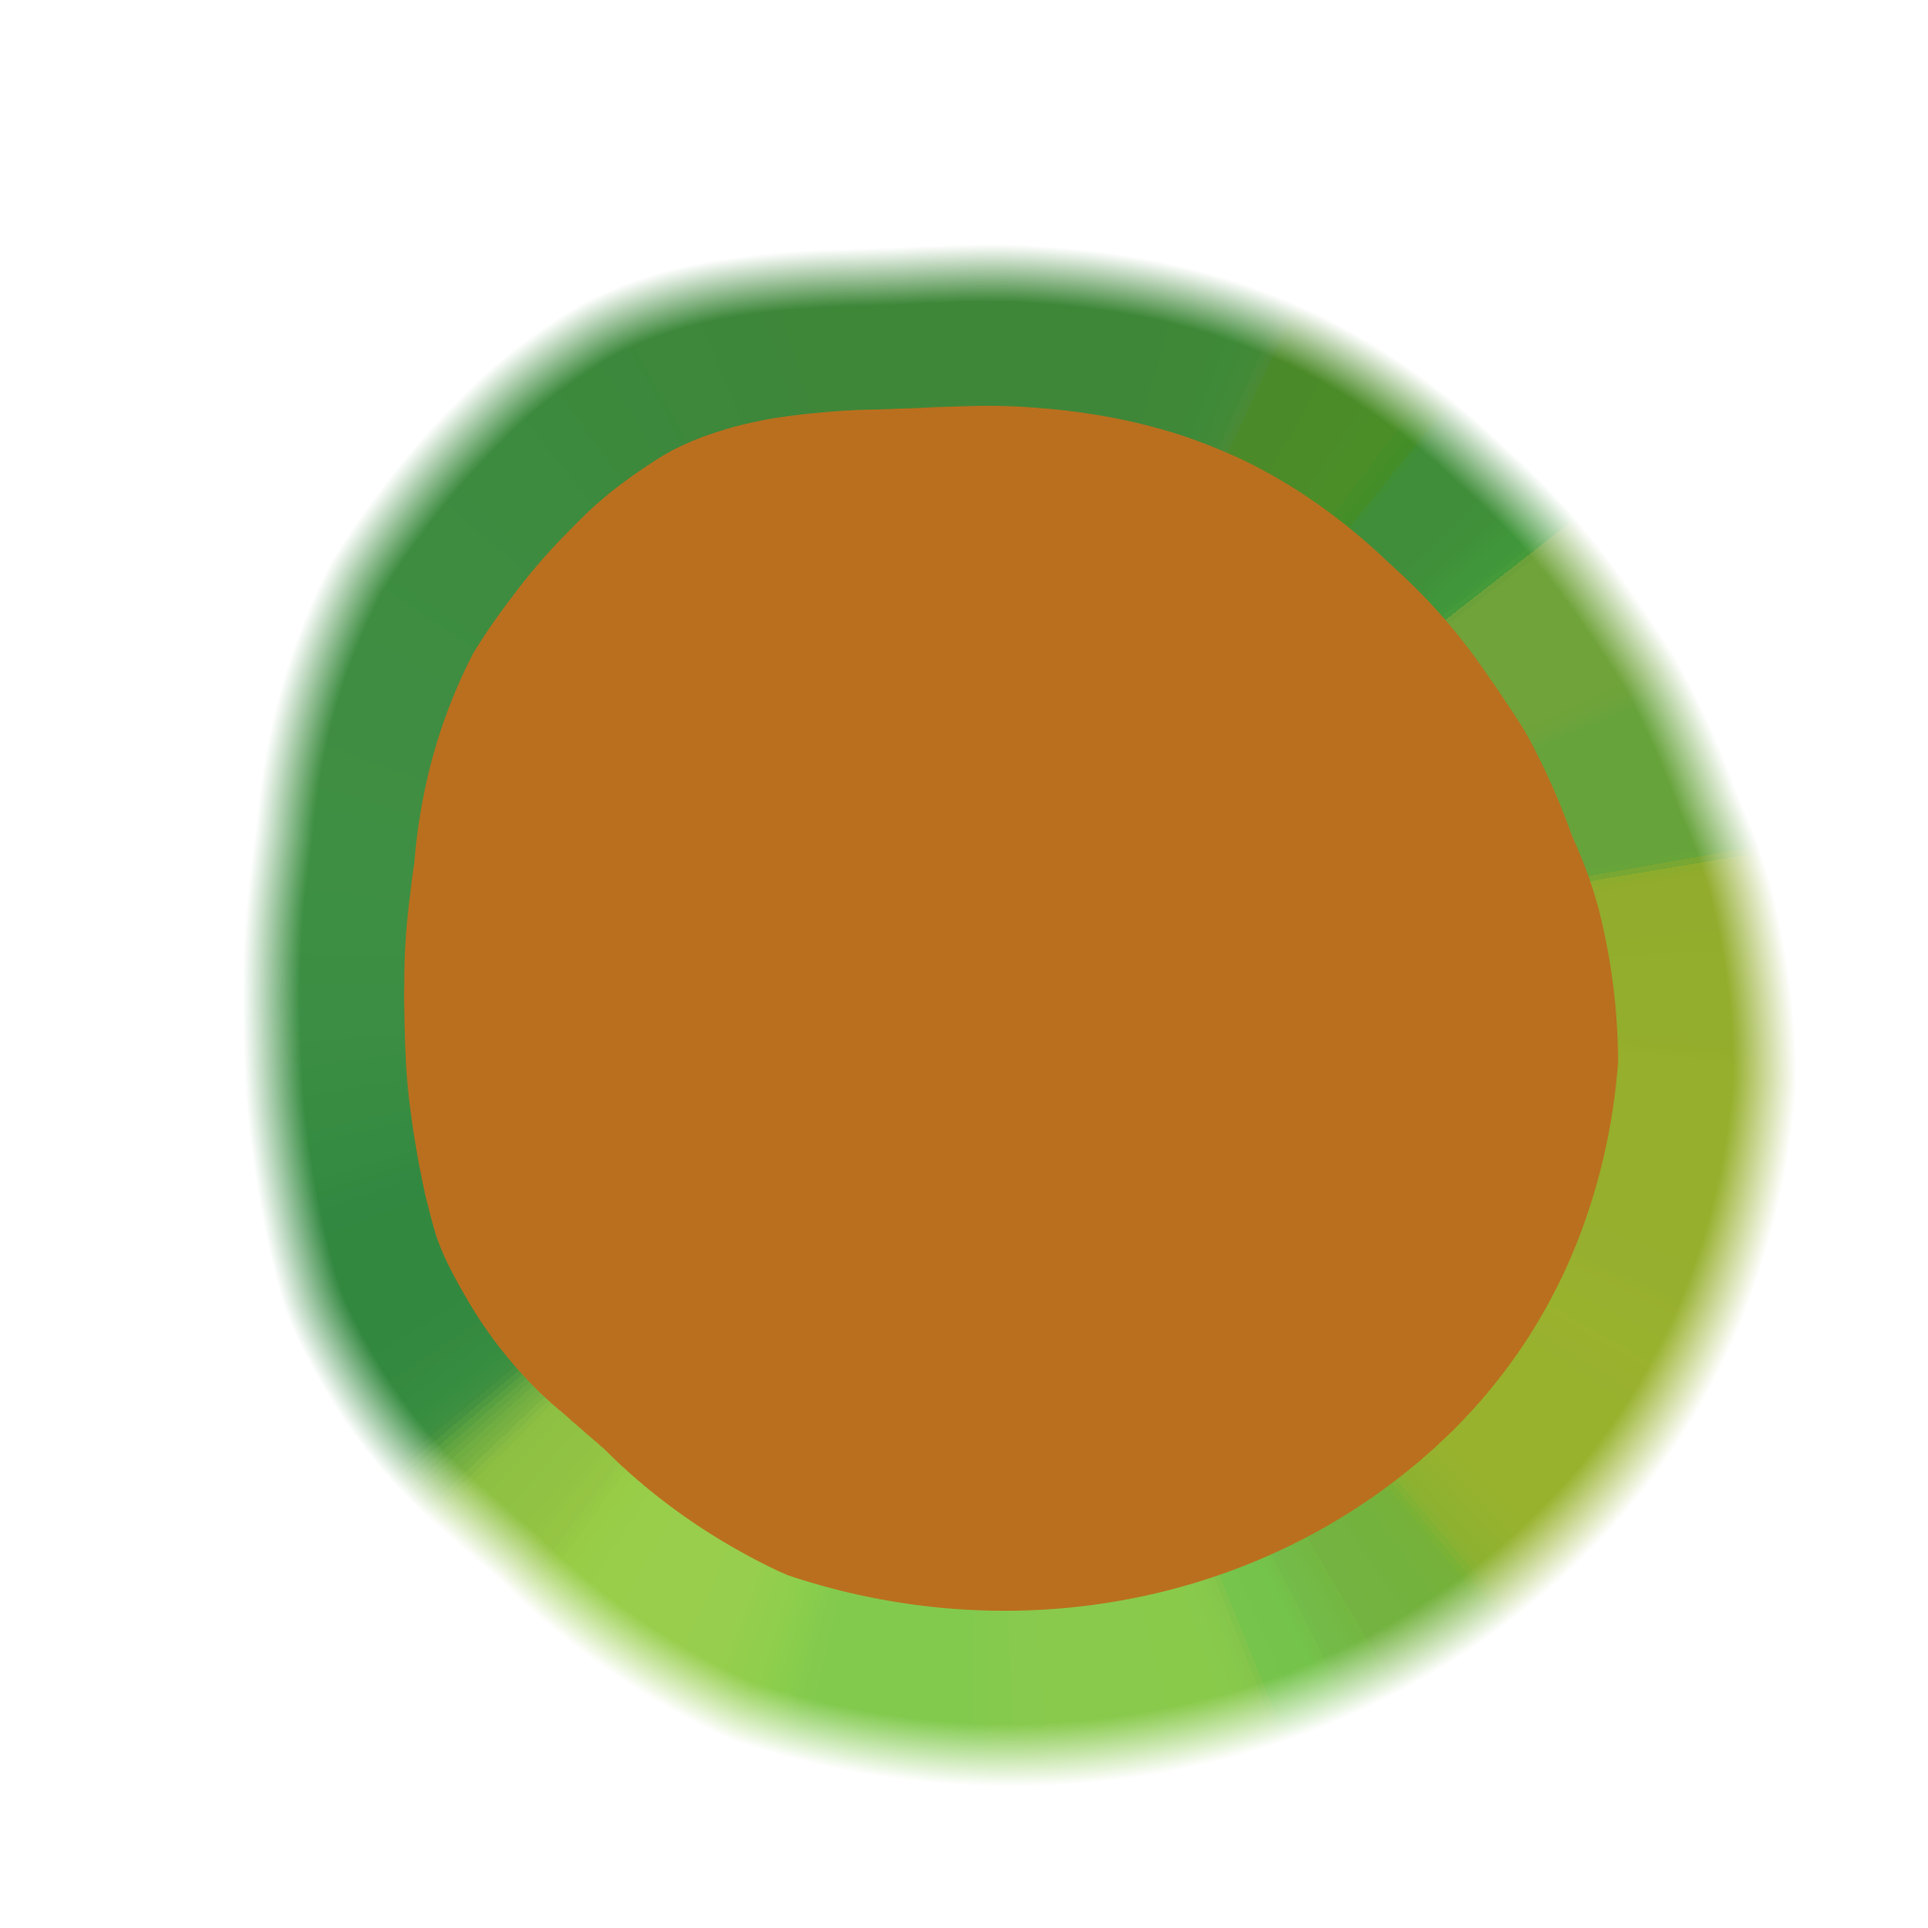
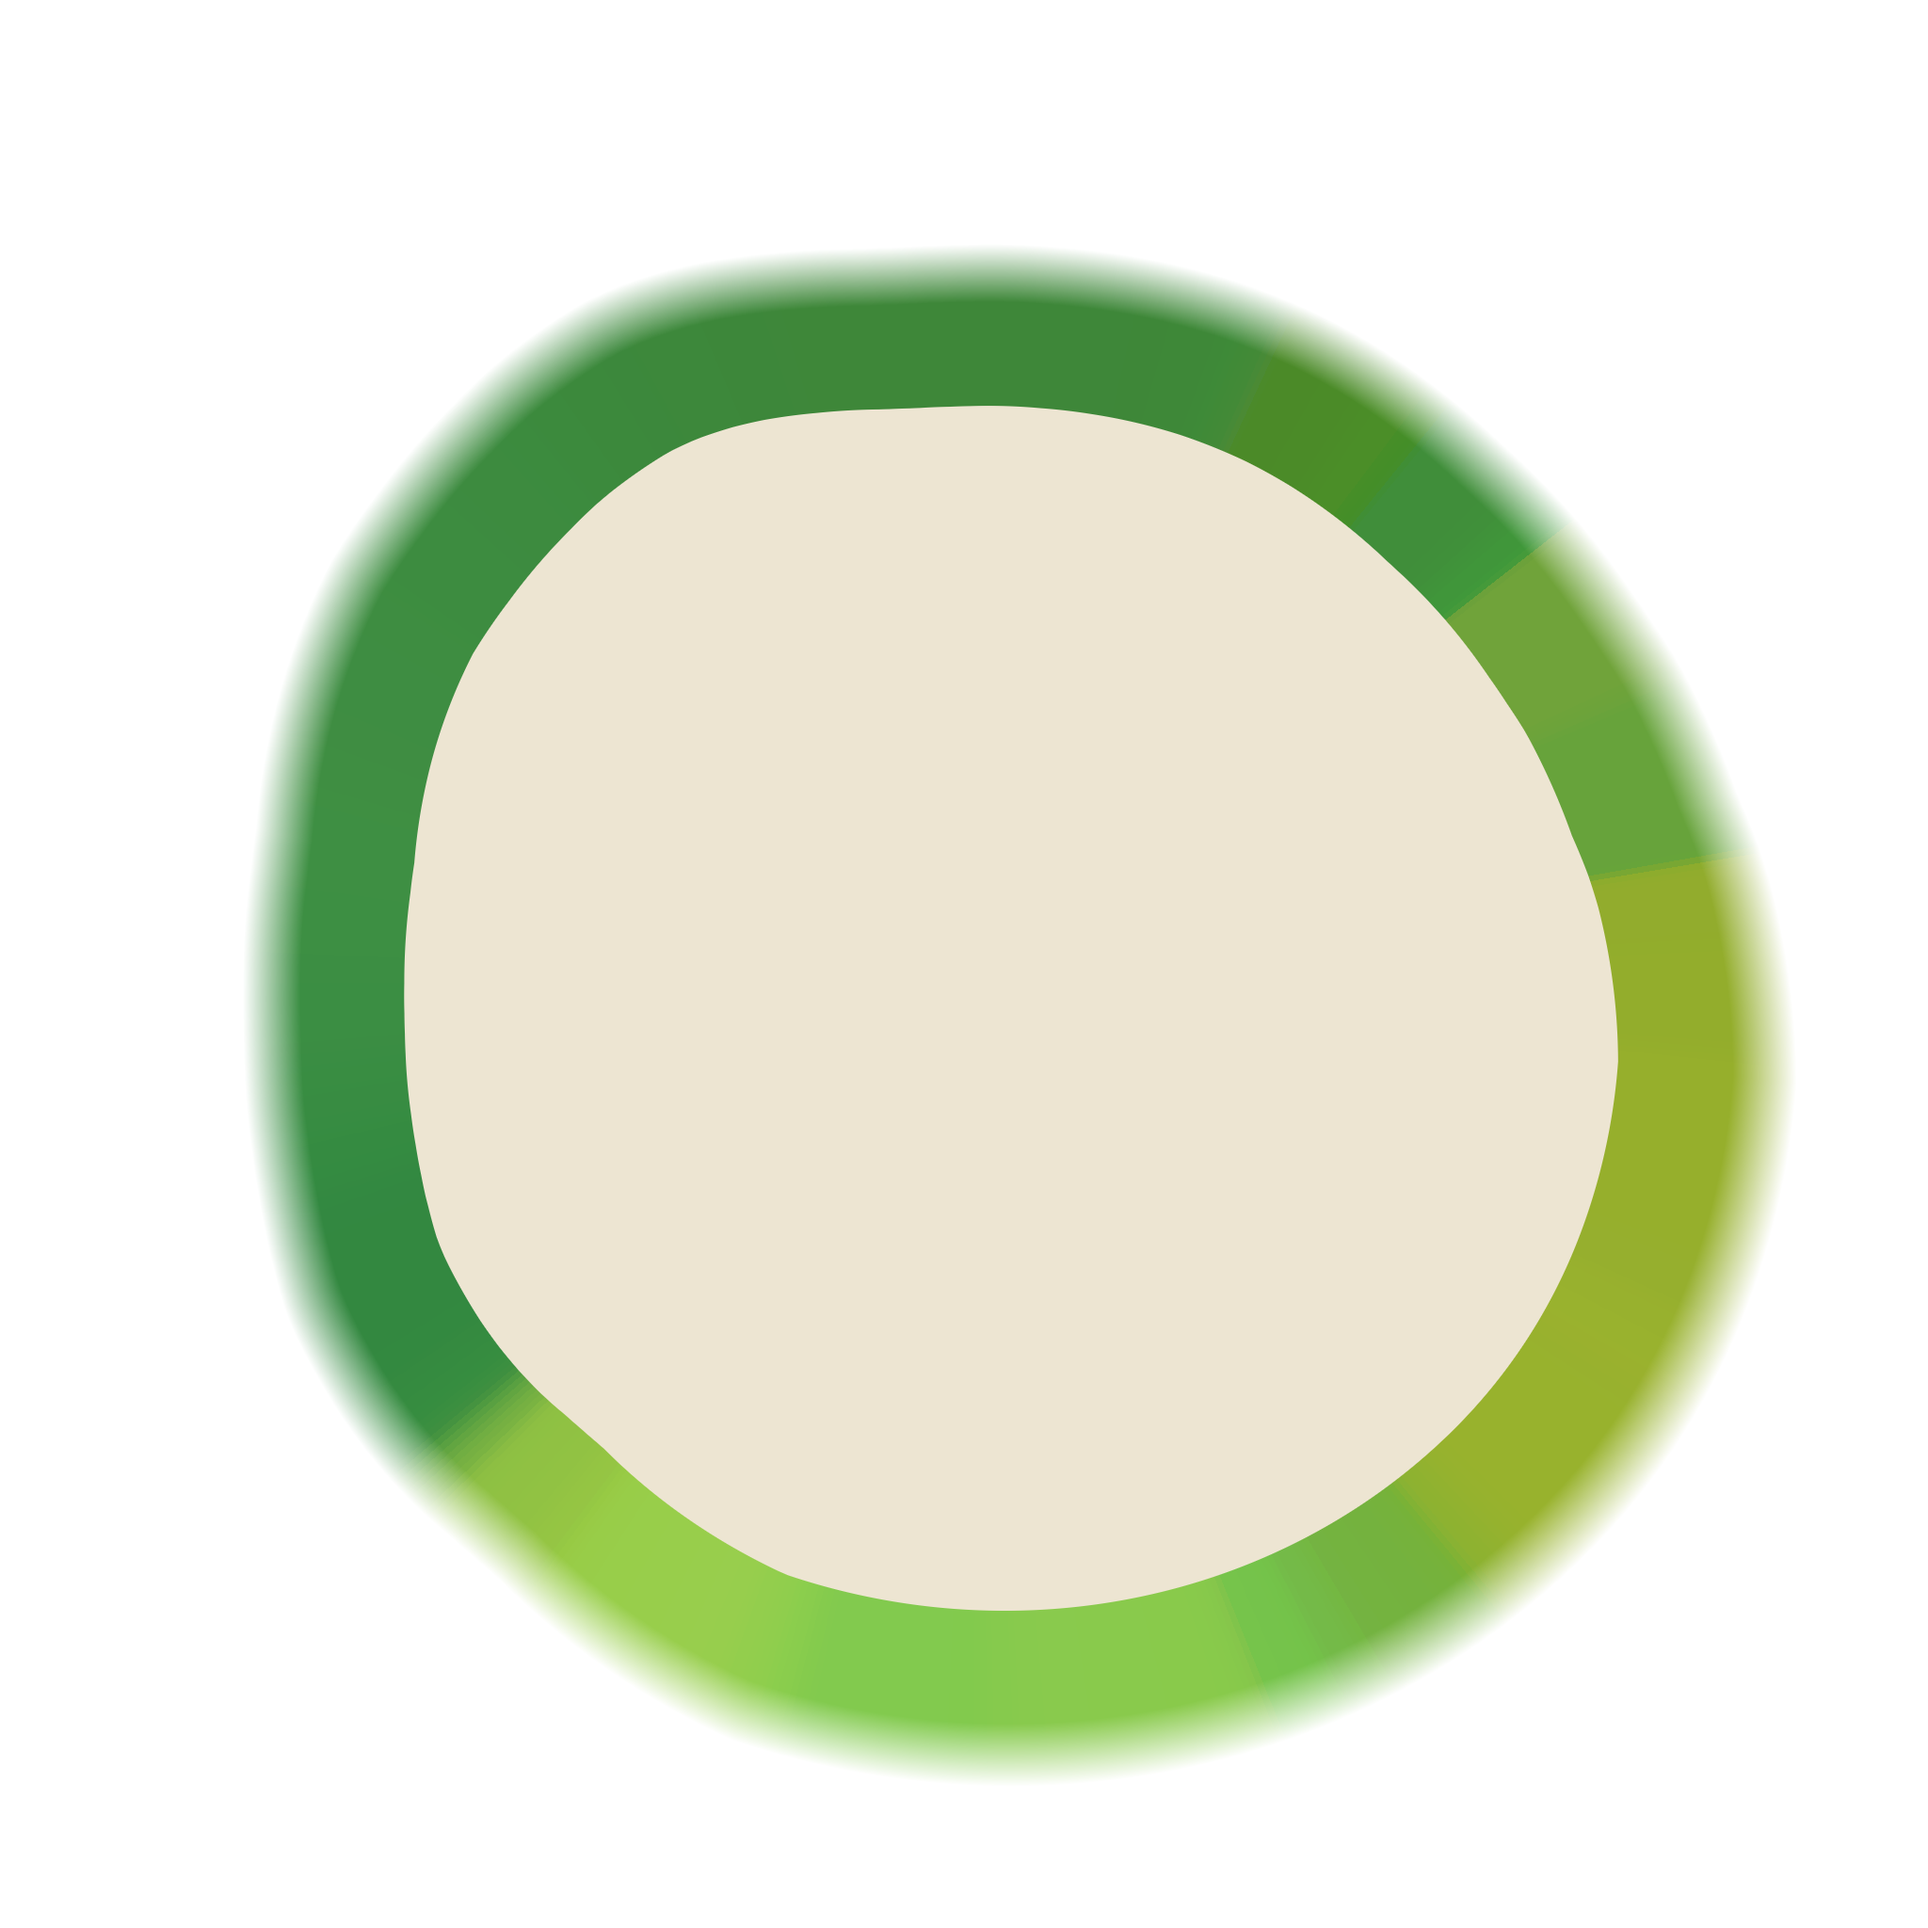
Olhos novos: globo em off-white (#F7F3EA), no lugar do dourado
Claude-Session: https://claude.ai/code/session_01TTv95JaJ6mtbt8CnqE9stn

diff --git a/kumo-3d-rodin/v6-dev/olhos-novos/src/olhos_novos.py b/kumo-3d-rodin/v6-dev/olhos-novos/src/olhos_novos.py
@@ -88,7 +88,7 @@ ART_R = float(np.hypot(xs + 0.5 - ART_C[0], ys + 0.5 - ART_C[1]).max())         
 BRANCO = A['globo'][int(ART_C[1]), int(ART_C[0]), :3].copy()
 # 25/11, pedido do Caio: o branco do globo em tom dourado suave (#F4E3B5), para não destoar do olho antigo (#E4BF74).
 # O valor vem em sRGB e vai para linear, como a arte que o Blender lê.
-_hex = np.array([0xDE, 0xB0, 0x60], np.float32) / 255   # 26/11: a cor do globo do modelo oficial (renders/face-front.png)
+_hex = np.array([0xF7, 0xF3, 0xEA], np.float32) / 255   # 26/11: off-white, pedido do Caio (no lugar do dourado)
 BRANCO = np.where(_hex <= 0.04045, _hex / 12.92, ((_hex + 0.055) / 1.055) ** 2.4).astype(np.float32)
 REP['arte'] = {'centro_px': ART_C.round(1).tolist(), 'raio_externo_px': round(ART_R, 1), 'branco': BRANCO.round(3).tolist()}
 # a imagem do decal: íris com a pupila por cima, no quadro da arte
